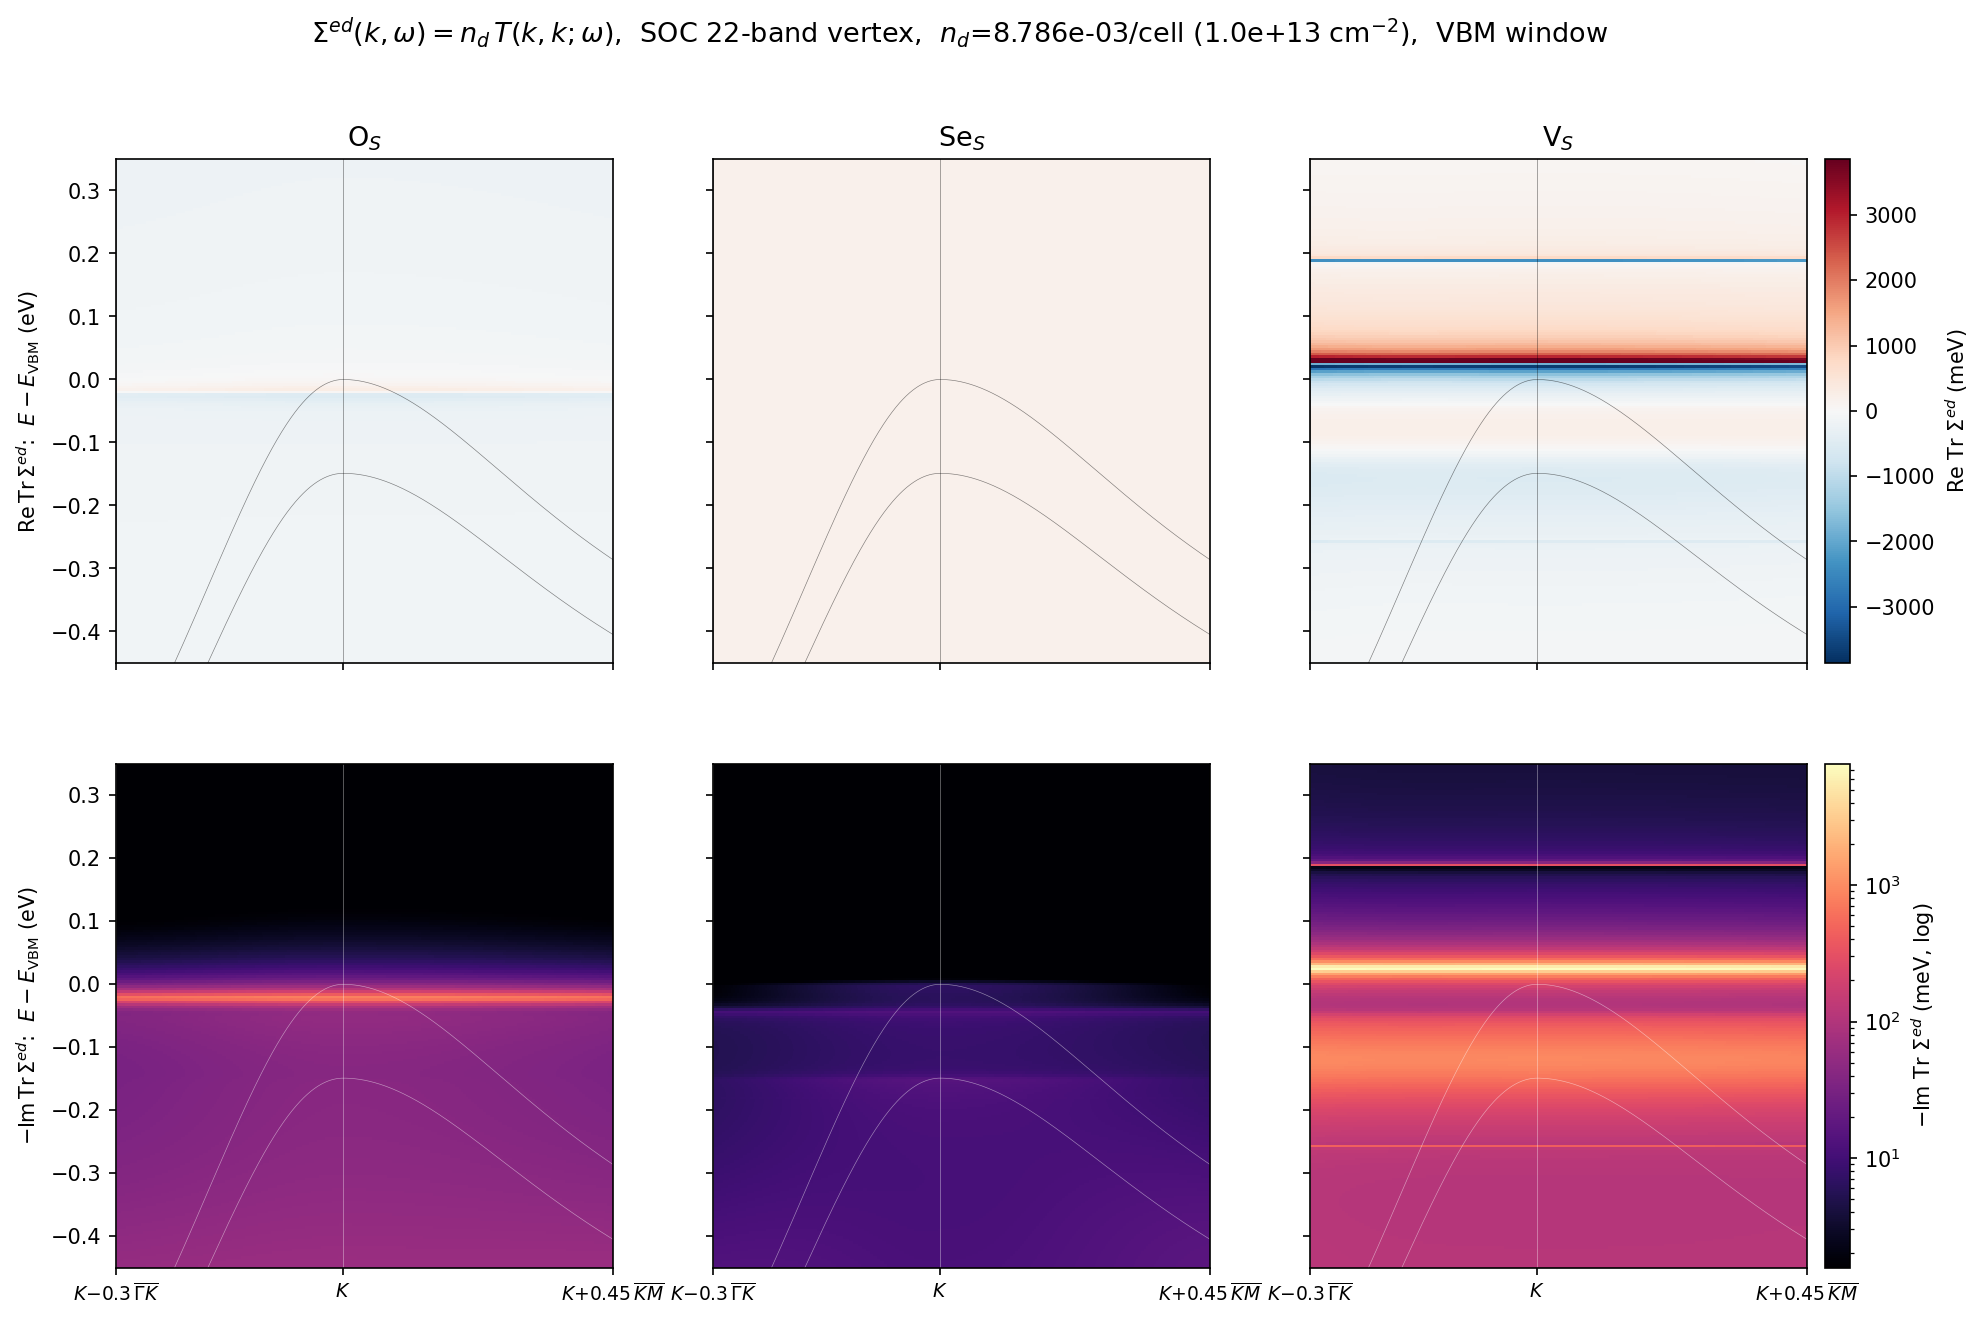
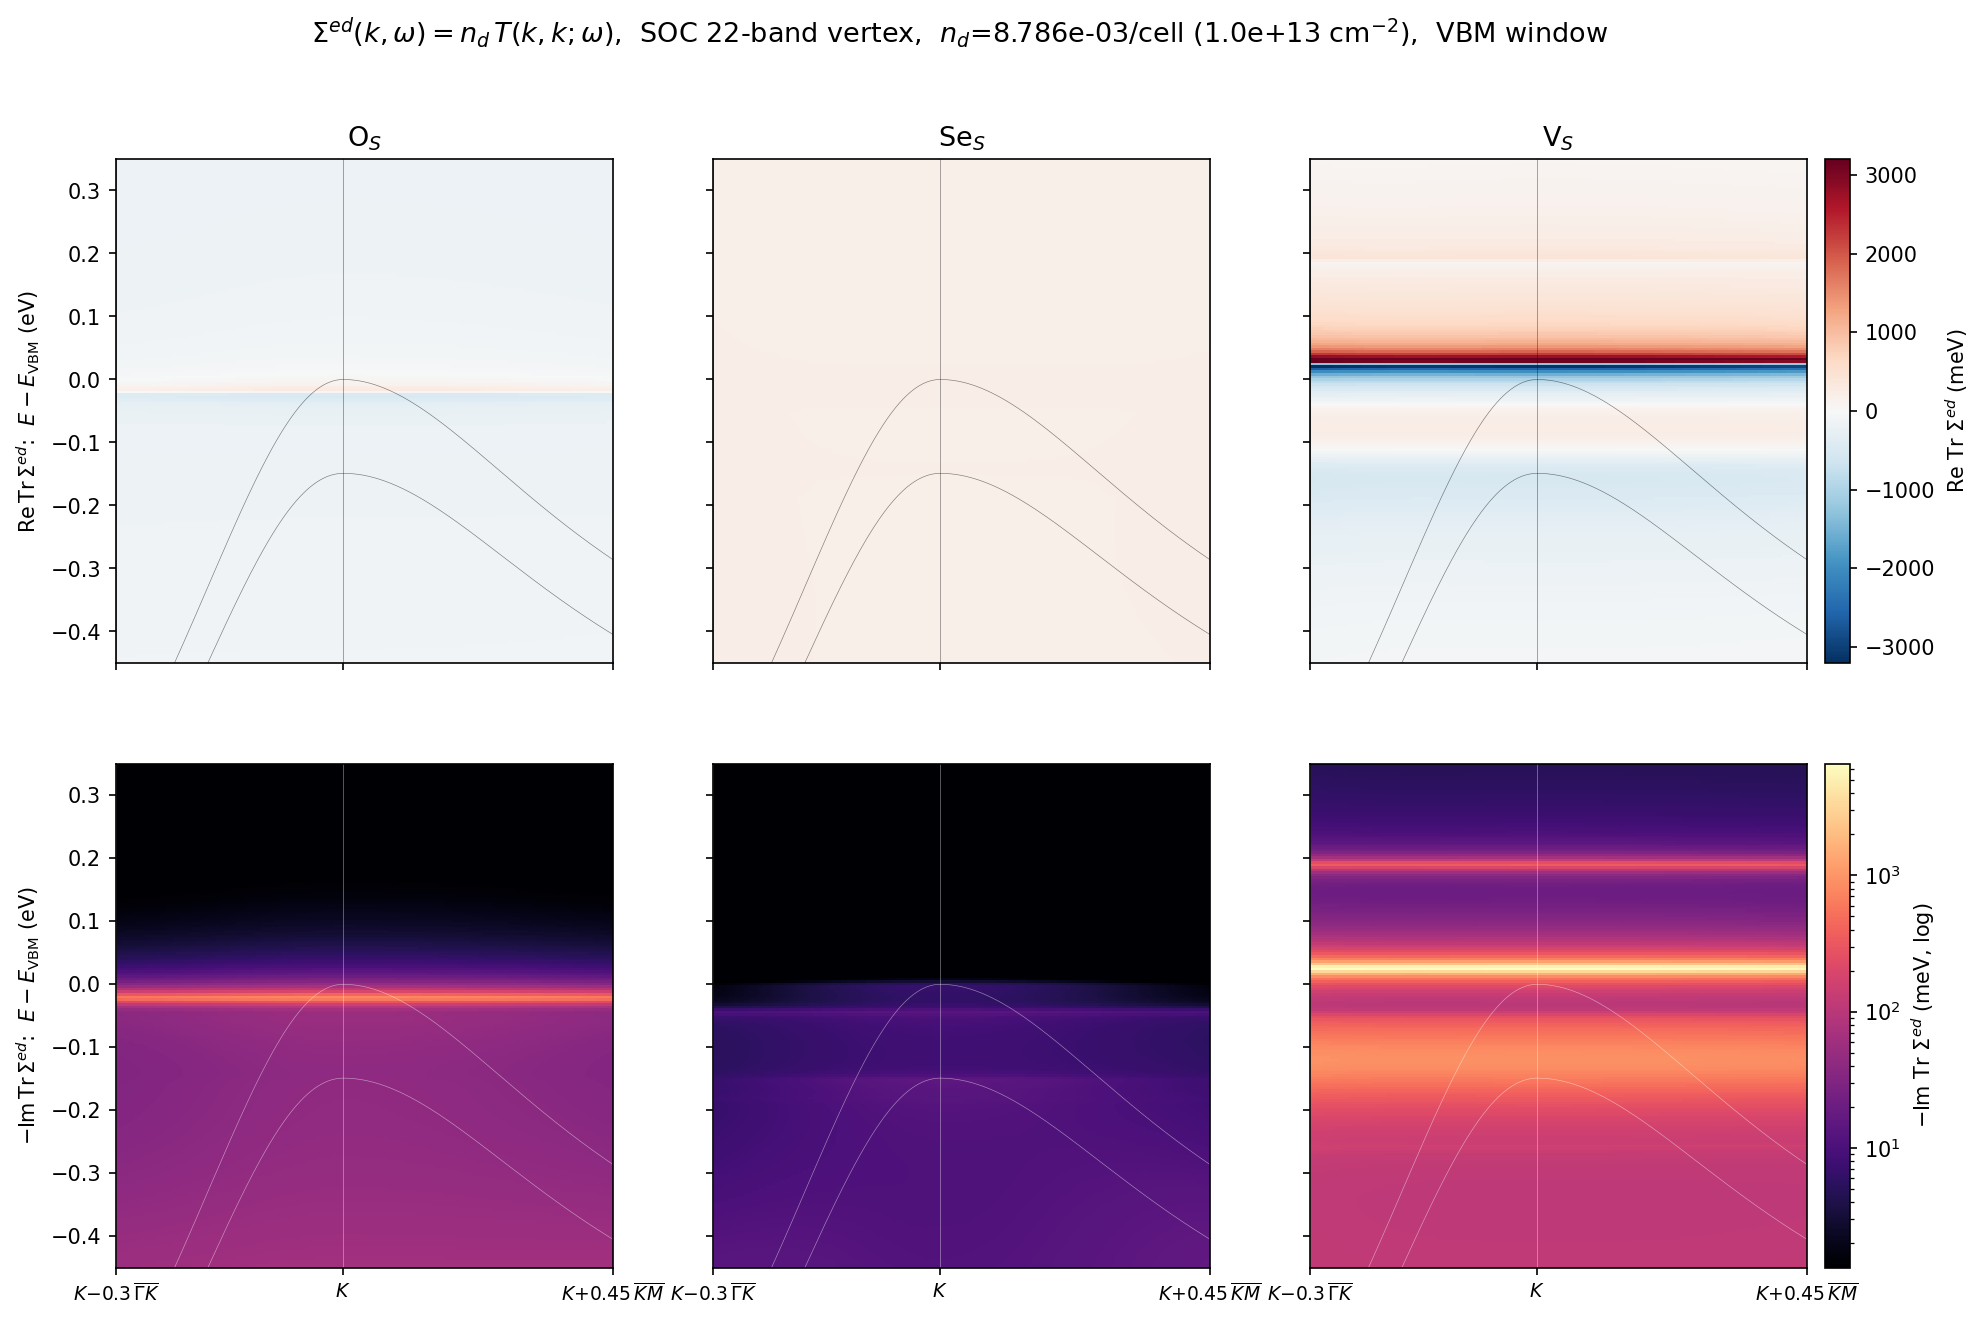
soczoom: retarded-CF recompute -- Ritz needles broadened to physical eta Lorentzians; all 11 figures (3 concentrations) replaced

diff --git a/docs/pages/soc-zoom.html b/docs/pages/soc-zoom.html
@@ -20,7 +20,7 @@
 <p><strong>三缺陷 22 带 K 谷 zoom(144k 链 + 22 轨道帧,同一 wannier 化):</strong></p>
 <p><img src="../assets/kzoom_soc22_cbm.png" alt="SOC22 CBM zoom" style="max-width:100%;height:auto;display:block;margin:1.2rem auto;border:1px solid #d0d7de;border-radius:6px"></p>
 <p><img src="../assets/kzoom_soc22_vbm.png" alt="SOC22 VBM zoom" style="max-width:100%;height:auto;display:block;margin:1.2rem auto;border:1px solid #d0d7de;border-radius:6px"></p>
-<p><strong>自能色图($\Sigma^{ed}(k,\omega)=n_d\,T(k,k;\omega)$,同 KZOOM 路径与能窗; 上行 Re Tr $\Sigma$(发散色标),下行 $-$Im Tr $\Sigma$(对数)):</strong></p>
+<p><strong>自能色图($\Sigma^{ed}(k,\omega)=n_d\,T(k,k;\omega)$,同 KZOOM 路径与能窗; 上行 Re Tr $\Sigma$(发散色标),下行 $-$Im Tr $\Sigma$(对数))。链式分数在 $\omega+i\eta$ 求值(推迟 $\tilde V$):有限链把被修饰的 rest 连续谱离散成实轴 Ritz 极点,实 $\omega$ 求值会让窗内极点呈零宽度细针(诊断:极点处 $\max|S_m|$ 71/63/161,各缺陷能量不同=链侧而非宿主 vHs);$+i\eta$ 后细针化为 ~$\eta$ 宽的 物理洛伦兹,隙内能级仅移 $O(\eta^2/\Delta)$:</strong></p>
 <p><img src="../assets/sigzoom_soc22_cbm.png" alt="Sigma CBM zoom" style="max-width:100%;height:auto;display:block;margin:1.2rem auto;border:1px solid #d0d7de;border-radius:6px"></p>
 <p><img src="../assets/sigzoom_soc22_vbm.png" alt="Sigma VBM zoom" style="max-width:100%;height:auto;display:block;margin:1.2rem auto;border:1px solid #d0d7de;border-radius:6px"></p>
 <p>读图:$T(k,k)$ 沿路径近乎平直——点缺陷短程势的特征;VBM 窗中 V$_\mathrm{S}$ 的 +0.03 浅隙态呈教科书式共振($-$Im 亮线、Re 过零翻号,$\pm$300 meV 色散瓣), Se$_\mathrm{S}$ 几乎无特征(等价电子);CBM 窗中 O$_\mathrm{S}$ 的 Re$\,\Sigma<0$ 是其下方 +1.545 共振的能级吸引,V$_\mathrm{S}$ 的 Re$\,\Sigma>0$ 向隙内增强 是深双重态(+1.12/+1.17)从下方的推斥;$-$Im 在带边同步开启(散射相空间)。</p>

diff --git a/content/soczoom.md b/content/soczoom.md
@@ -36,7 +36,11 @@ $\max|T|$ 增强 ×200),而 O$_\mathrm{S}$/Se$_\mathrm{S}$ 间隙干净——三
 
 
 **自能色图($\Sigma^{ed}(k,\omega)=n_d\,T(k,k;\omega)$,同 KZOOM 路径与能窗;
-上行 Re Tr $\Sigma$(发散色标),下行 $-$Im Tr $\Sigma$(对数)):**
+上行 Re Tr $\Sigma$(发散色标),下行 $-$Im Tr $\Sigma$(对数))。链式分数在
+$\omega+i\eta$ 求值(推迟 $\tilde V$):有限链把被修饰的 rest 连续谱离散成实轴
+Ritz 极点,实 $\omega$ 求值会让窗内极点呈零宽度细针(诊断:极点处 $\max|S_m|$
+71/63/161,各缺陷能量不同=链侧而非宿主 vHs);$+i\eta$ 后细针化为 ~$\eta$ 宽的
+物理洛伦兹,隙内能级仅移 $O(\eta^2/\Delta)$:**
 
 ![Sigma CBM zoom](../assets/sigzoom_soc22_cbm.png)
 
